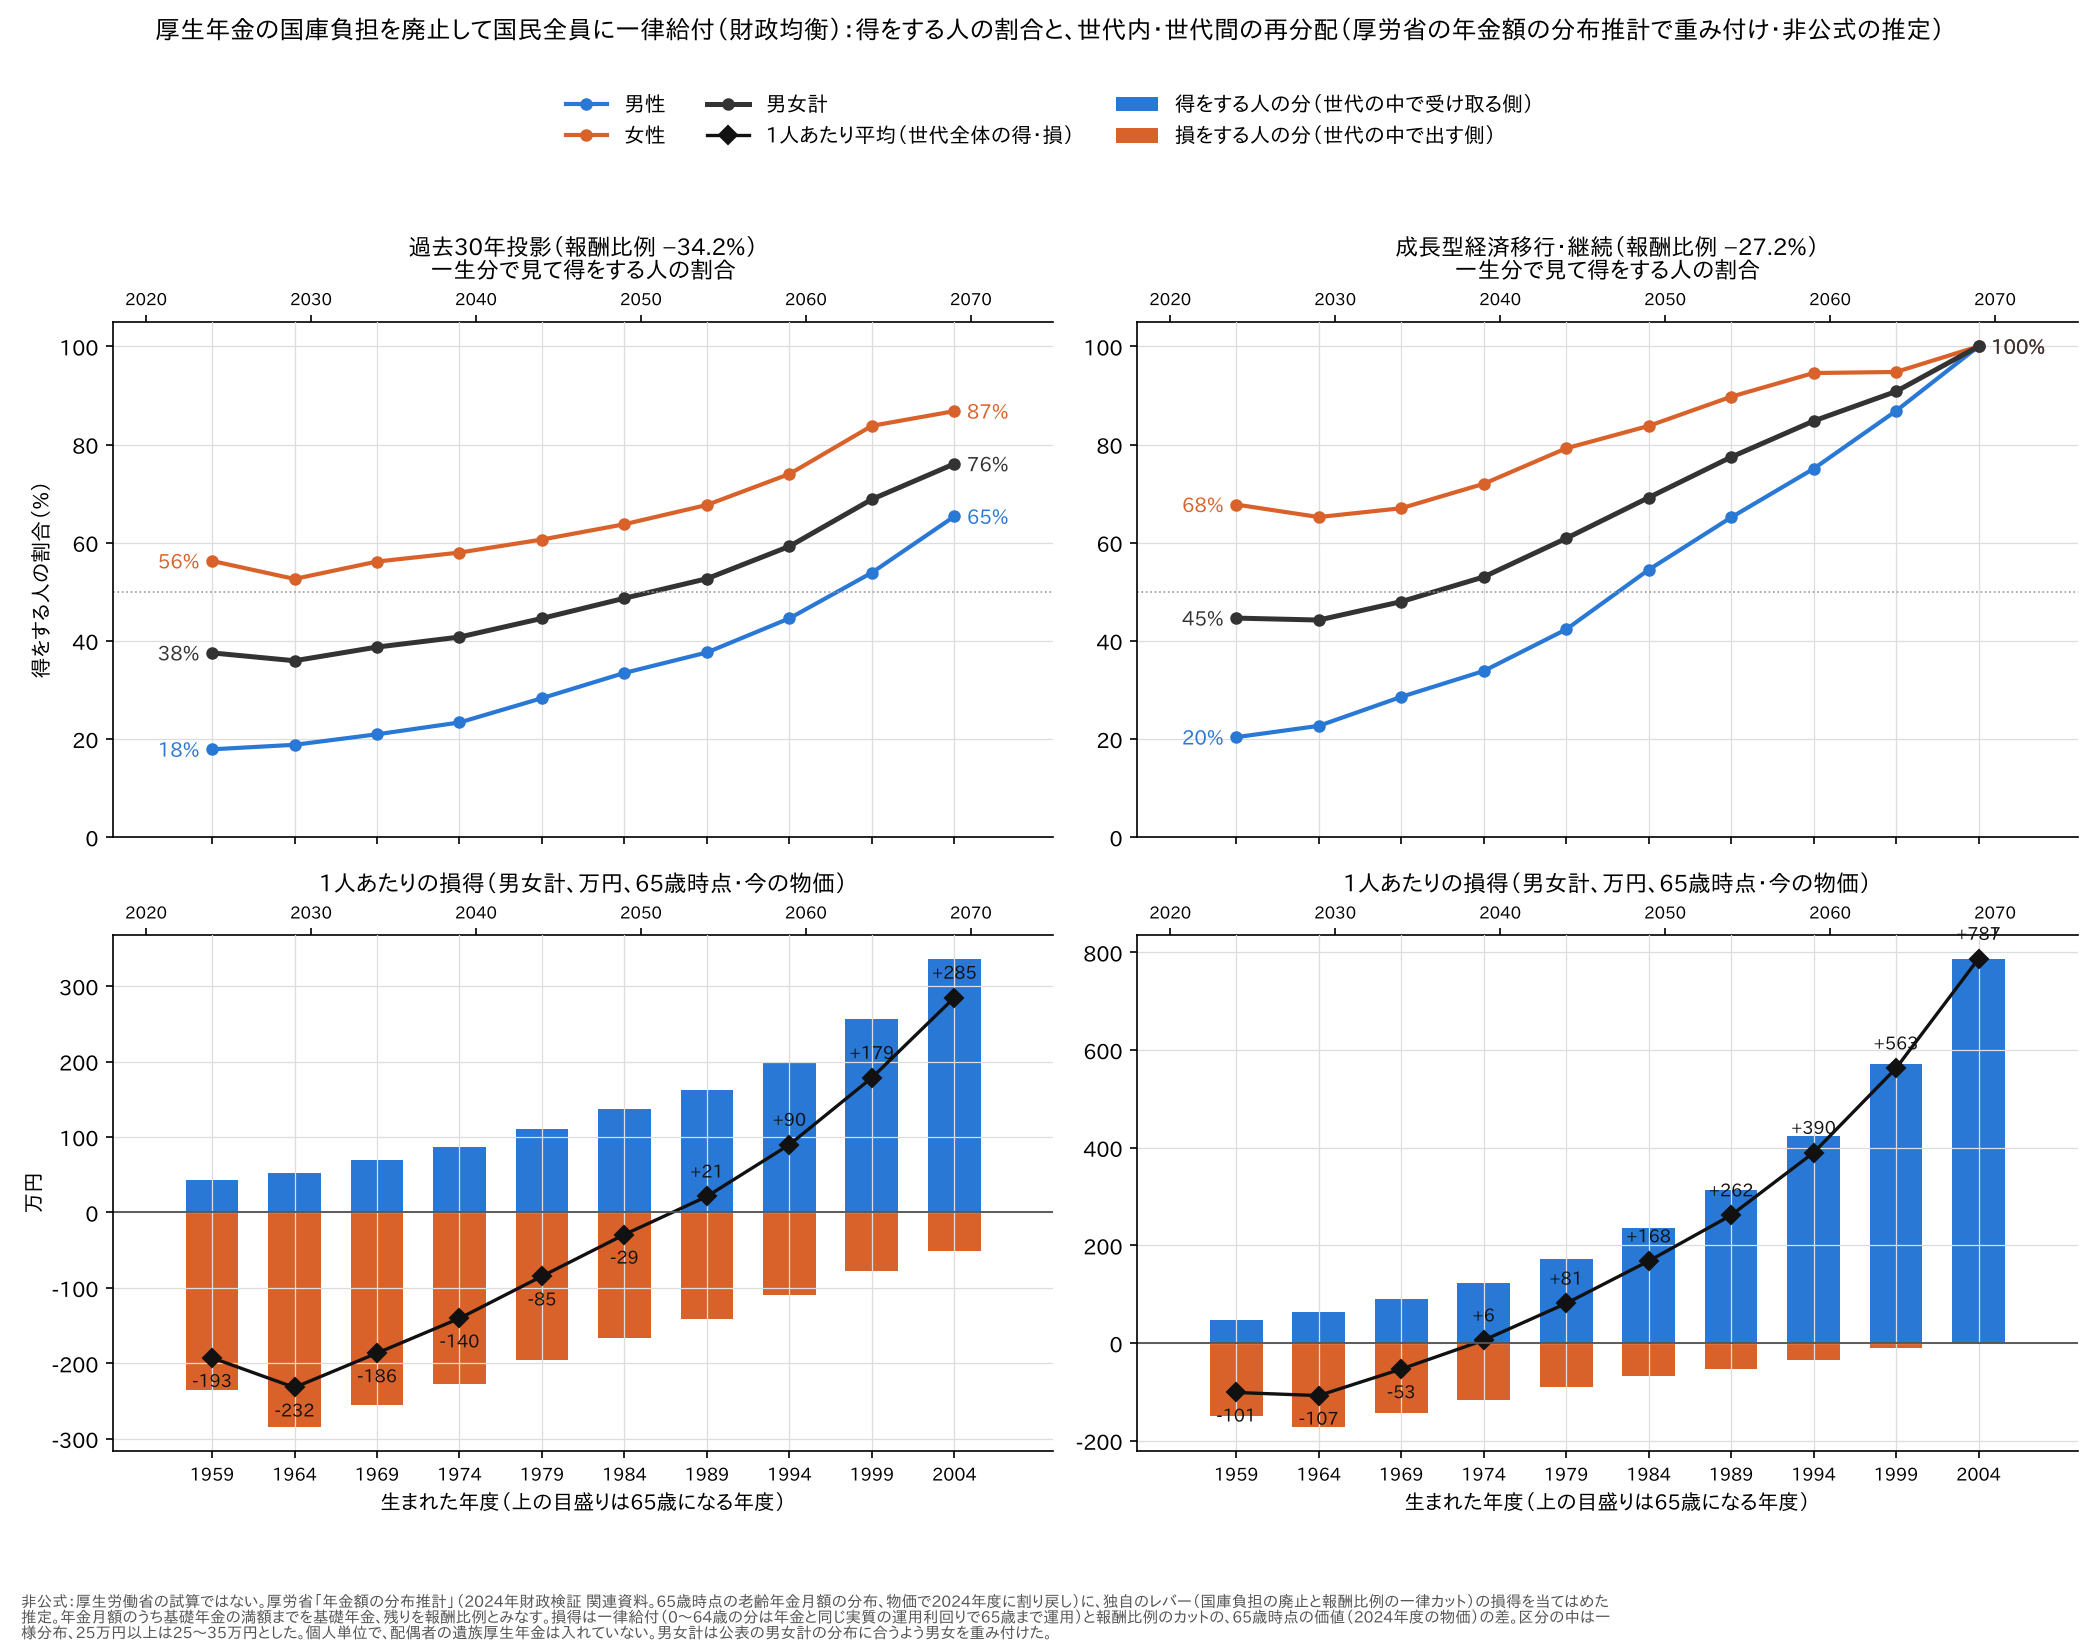
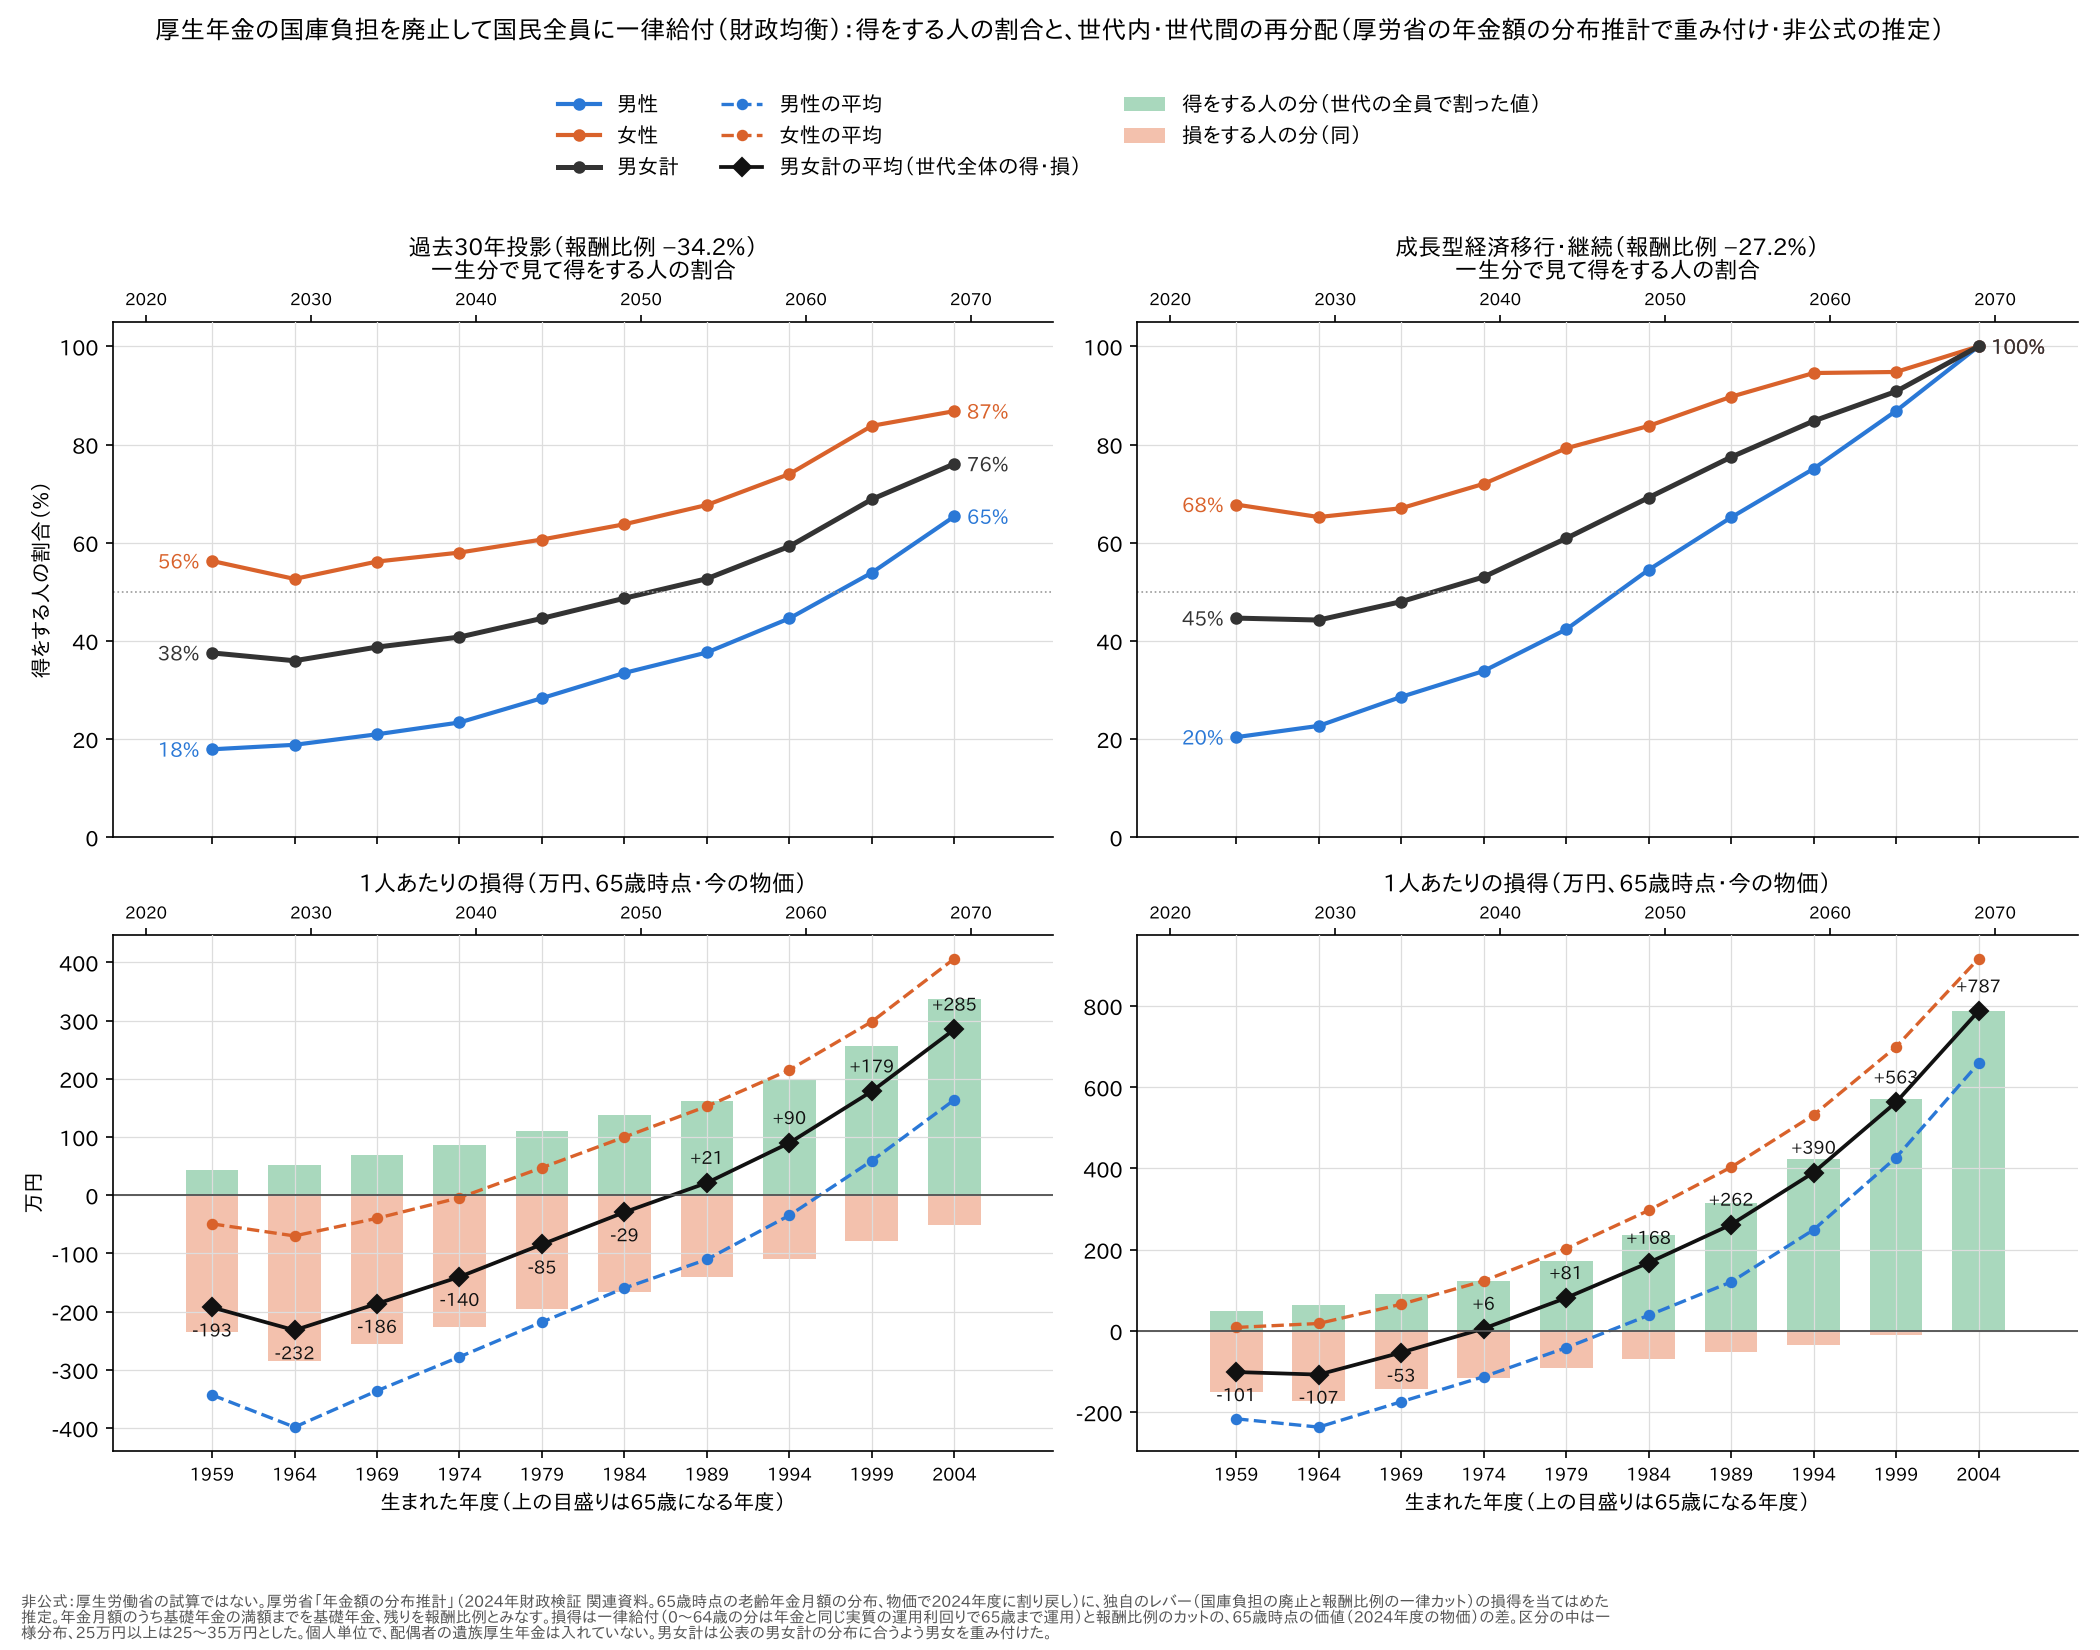
得をする人の割合：図に男女の平均の線を足し、記事を読みやすく書き直す
Claude-Session: https://claude.ai/code/session_01RDNaGg3m4YCA4HAPkpWMuM

diff --git a/勉強/応用編/得する人の割合.py b/勉強/応用編/得する人の割合.py
@@ -124,12 +124,15 @@ def report():
             o = r[c]
             print(f"| {c}（{c + 65}） | {o['計']['share'] * 100:.0f}% | {o['男']['share'] * 100:.0f}% | {o['女']['share'] * 100:.0f}% | "
                   f"{o['男']['T']:.1f}万円／{o['女']['T']:.1f}万円 |")
-        print("\n| 生まれた年度 | 1人あたり平均（万円） | うち得をする人の分 | うち損をする人の分 | 男性の平均 | 女性の平均 |")
-        print("|---|---|---|---|---|---|")
+        print("\n| 生まれた年度 | 男女計の平均（万円） | 男性の平均 | 女性の平均 | 得をする人の分 | 損をする人の分 | 得をする人1人あたり | 損をする人1人あたり |")
+        print("|---|---|---|---|---|---|---|---|")
         for c in COHORTS:
             o = r[c]
-            print(f"| {c} | {o['計']['mean']:+,.0f} | {o['計']['gain']:+,.0f} | {o['計']['loss']:+,.0f} | "
-                  f"{o['男']['mean']:+,.0f} | {o['女']['mean']:+,.0f} |")
+            t = o["計"]
+            pw = t["gain"] / t["share"] if t["share"] > 0 else 0.0
+            pl = t["loss"] / (1 - t["share"]) if t["share"] < 1 else 0.0
+            print(f"| {c} | {t['mean']:+,.0f} | {o['男']['mean']:+,.0f} | {o['女']['mean']:+,.0f} | "
+                  f"{t['gain']:+,.0f} | {t['loss']:+,.0f} | {pw:+,.0f} | {pl:+,.0f} |")
         print()
 
 
@@ -162,14 +165,16 @@ def graph():
         g = [r[c]["計"]["gain"] for c in cs]
         lo = [r[c]["計"]["loss"] for c in cs]
         m = [r[c]["計"]["mean"] for c in cs]
-        b.bar(cs, g, width=3.2, color="#2a78d6", label="得をする人の分（世代の中で受け取る側）")
-        b.bar(cs, lo, width=3.2, color="#d9622b", label="損をする人の分（世代の中で出す側）")
-        b.plot(cs, m, color="#111", marker="D", ms=6, lw=1.6, label="1人あたり平均（世代全体の得・損）")
+        b.bar(cs, g, width=3.2, color="#a9d8bd", label="得をする人の分（世代の全員で割った値）")
+        b.bar(cs, lo, width=3.2, color="#f3c1ad", label="損をする人の分（同）")
+        for sx, lab in (("男", "男性の平均"), ("女", "女性の平均")):
+            b.plot(cs, [r[c][sx]["mean"] for c in cs], color=col[sx], marker="o", ms=4.5, lw=1.6, ls="--", label=lab)
+        b.plot(cs, m, color="#111", marker="D", ms=6, lw=1.8, label="男女計の平均（世代全体の得・損）")
         for x, y in zip(cs, m):
             b.annotate(f"{y:+,.0f}", (x, y), xytext=(0, 9 if y >= 0 else -14), textcoords="offset points",
                        ha="center", fontsize=8.5, color="#111")
         b.axhline(0, color="#555", lw=0.9)
-        b.set_title("1人あたりの損得（男女計、万円、65歳時点・今の物価）", fontsize=11)
+        b.set_title("1人あたりの損得（万円、65歳時点・今の物価）", fontsize=11)
         b.set_xlabel("生まれた年度（上の目盛りは65歳になる年度）")
         if j == 0:
             b.set_ylabel("万円")
